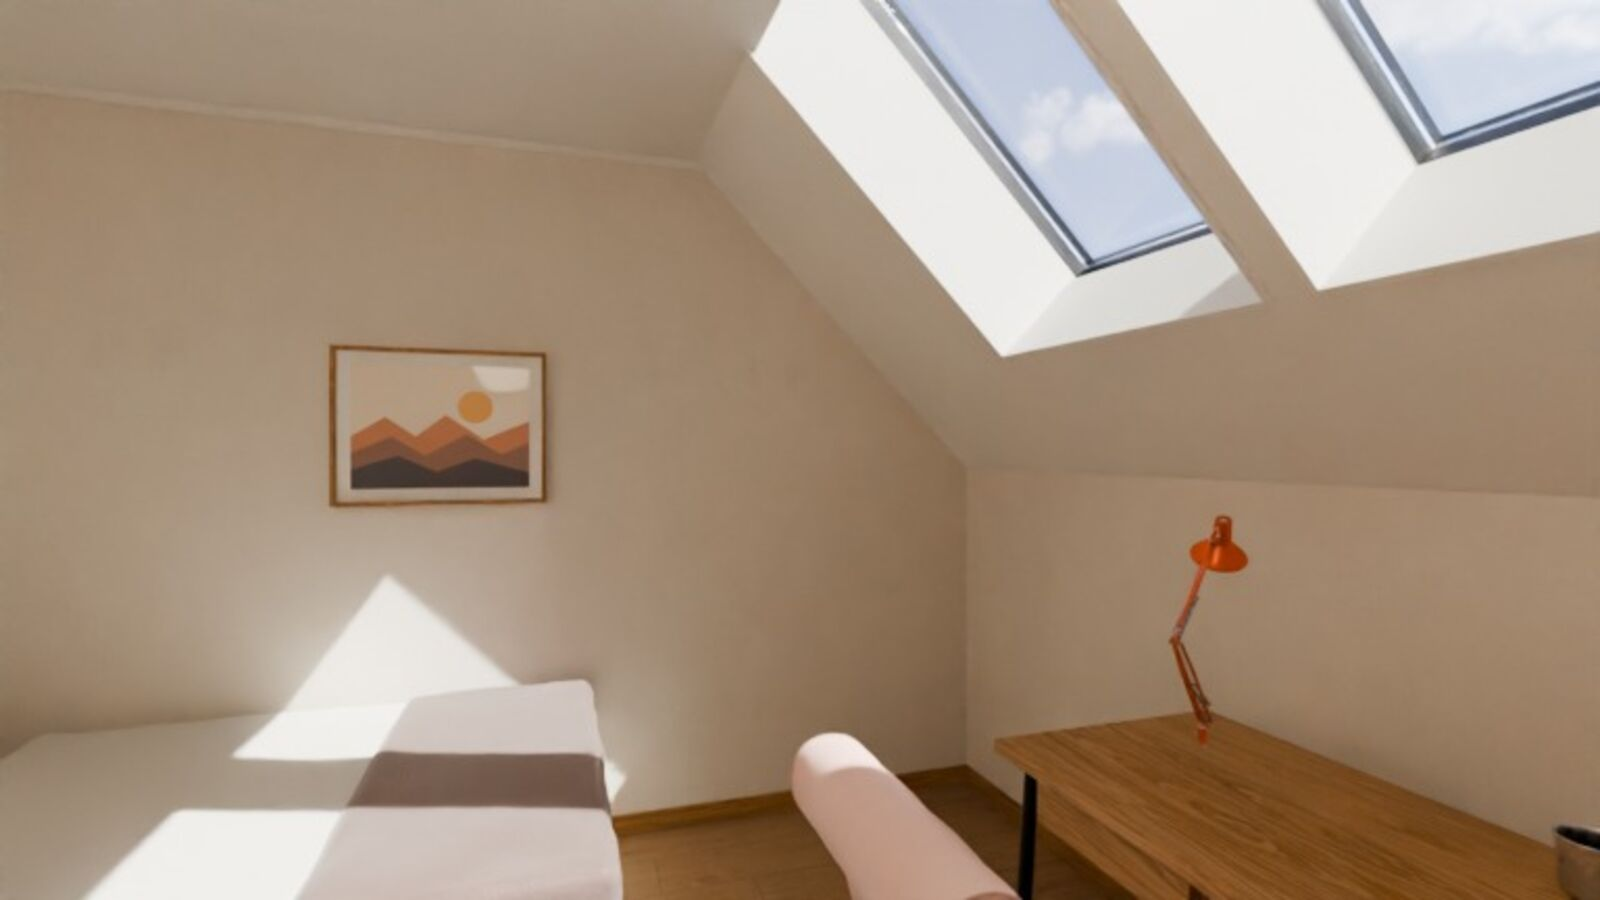
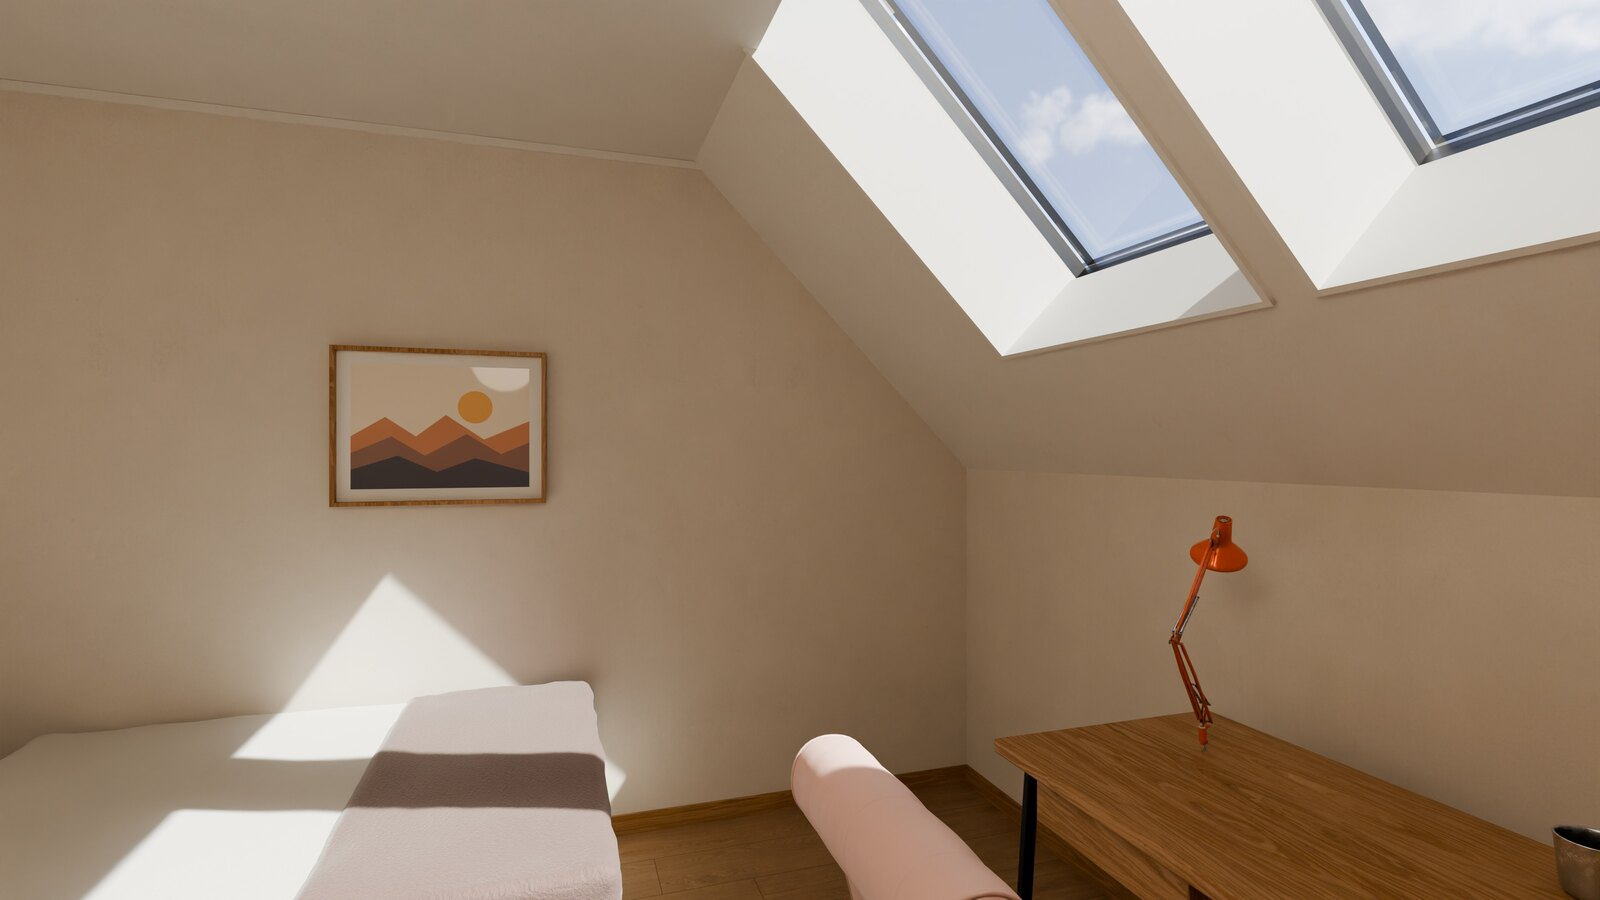
Boligannonse: 15 av 25 bilder i 4K

diff --git a/annonse/index.html b/annonse/index.html
@@ -103,7 +103,7 @@ img { max-width: 100%; }
 
 <div class="ark">
   <header class="topp">
-    <div class="merke"><strong>3D-visualisering av planlagt ombygging</strong><span>13 av 25 bilder er ferdige i 4K, resten er forhåndsvisninger</span></div>
+    <div class="merke"><strong>3D-visualisering av planlagt ombygging</strong><span>15 av 25 bilder er ferdige i 4K, resten er forhåndsvisninger</span></div>
     <h1>Enebolig med golfanneks og oppvarmet garasje</h1>
     <figure class="bilde hero"><button type="button" class="apne" data-i="0" aria-label="Åpne bildet: Fasaden mot nord med overbygd inngang"><img src="img/01-fasade.jpg" width="1600" height="900" alt="Fasaden mot nord med overbygd inngang"></button><figcaption>Fasaden mot nord med overbygd inngang</figcaption></figure>
     <p class="ingress">Et hus over tre plan med stue og kjøkken mot hagen, hovedsoverom med eget bad, tre barnerom og loft. I hagen står et anneks med golfsimulator. Trykk på et bilde for å se det i full oppløsning. På mobil fyller bildet hele skjermen når du snur den, og du blar ved å sveipe.</p>
@@ -113,7 +113,7 @@ img { max-width: 100%; }
 
 <section id="ute" class="del"><div class="delhode"><h2>Huset</h2><p>Brun stående kledning, sort ståltak og eik rundt alle åpninger. Overbygd inngang mot nord, dobbel garasje ved siden av.</p></div><div class="galleri"><figure class="bilde stor"><button type="button" class="apne" data-i="1" aria-label="Åpne bildet: Huset, garasjen og annekset sett fra nord"><img src="img/02-oversikt.jpg" width="1600" height="900" alt="Huset, garasjen og annekset sett fra nord" loading="lazy"></button><figcaption>Huset, garasjen og annekset sett fra nord</figcaption></figure></div></section>
 <section id="forste" class="del"><div class="delhode"><h2>Første etasje</h2><p>Stue, TV-stue, spisestue og kjøkken ligger på rekke mot hagen i sør. Tilbygget med kjøkken og spisestue ligger litt lavere enn stua og har 2,9 meter under taket.</p></div><div class="galleri"><figure class="bilde stor"><button type="button" class="apne" data-i="2" aria-label="Åpne bildet: Stua med karnapp mot hagen"><img src="img/04-stue.jpg" width="1600" height="900" alt="Stua med karnapp mot hagen" loading="lazy"></button><figcaption>Stua med karnapp mot hagen</figcaption></figure><figure class="bilde"><button type="button" class="apne" data-i="3" aria-label="Åpne bildet: Sofagruppa, med TV-stua bak glassveggen til venstre"><img src="img/05-stue-sofa.jpg" width="1600" height="900" alt="Sofagruppa, med TV-stua bak glassveggen til venstre" loading="lazy"></button><figcaption>Sofagruppa, med TV-stua bak glassveggen til venstre</figcaption></figure><figure class="bilde"><button type="button" class="apne" data-i="4" aria-label="Åpne bildet: Spisestue med rundt bord til åtte og skyvedører ut til terrassen"><img src="img/07-spisestue.jpg" width="1600" height="900" alt="Spisestue med rundt bord til åtte og skyvedører ut til terrassen" loading="lazy"></button><figcaption>Spisestue med rundt bord til åtte og skyvedører ut til terrassen</figcaption></figure><figure class="bilde"><button type="button" class="apne" data-i="5" aria-label="Åpne bildet: Kjøkken med mørk brune fronter og øy i Dekton"><img src="img/08-kjokken.jpg" width="1600" height="900" alt="Kjøkken med mørk brune fronter og øy i Dekton" loading="lazy"></button><figcaption>Kjøkken med mørk brune fronter og øy i Dekton</figcaption></figure><figure class="bilde"><button type="button" class="apne" data-i="6" aria-label="Åpne bildet: Kjøkkenøya har usynlig induksjon under steinplata"><img src="img/09-kjokken-oy.jpg" width="1600" height="900" alt="Kjøkkenøya har usynlig induksjon under steinplata" loading="lazy"></button><figcaption>Kjøkkenøya har usynlig induksjon under steinplata</figcaption></figure><figure class="bilde"><button type="button" class="apne" data-i="7" aria-label="Åpne bildet: TV-stua kan stenges av med glassfoldevegg"><img src="img/06-tvstue.jpg" width="1600" height="900" alt="TV-stua kan stenges av med glassfoldevegg" loading="lazy"></button><figcaption>TV-stua kan stenges av med glassfoldevegg</figcaption></figure><figure class="bilde"><button type="button" class="apne" data-i="8" aria-label="Åpne bildet: Entréen sett fra hoveddøra, med stua innerst"><img src="img/03-entre.jpg" width="1600" height="900" alt="Entréen sett fra hoveddøra, med stua innerst" loading="lazy"></button><figcaption>Entréen sett fra hoveddøra, med stua innerst</figcaption></figure></div></section>
-<section id="andre" class="del"><div class="delhode"><h2>Andre etasje</h2><p>Hovedsoverom med eget bad og walk-in, tre barnerom, barnebad, vaskerom og hjemmekontor.</p></div><div class="galleri"><figure class="bilde stor"><button type="button" class="apne" data-i="9" aria-label="Åpne bildet: Hovedsoverommet, med loftstrappa utenfor døra"><img src="img/10-hovedsoverom.jpg" width="1600" height="900" alt="Hovedsoverommet, med loftstrappa utenfor døra" loading="lazy"></button><figcaption>Hovedsoverommet, med loftstrappa utenfor døra</figcaption></figure><figure class="bilde"><button type="button" class="apne" data-i="10" aria-label="Åpne bildet: Bad til hovedsoverommet med dusj under skråtaket"><img src="img/11-masterbad.jpg" width="1600" height="900" alt="Bad til hovedsoverommet med dusj under skråtaket" loading="lazy"></button><figcaption>Bad til hovedsoverommet med dusj under skråtaket</figcaption></figure><figure class="bilde"><button type="button" class="apne" data-i="11" aria-label="Åpne bildet: Walk-in med plassbygd innredning i eik"><img src="img/12-walkin.jpg" width="1600" height="900" alt="Walk-in med plassbygd innredning i eik" loading="lazy"></button><figcaption>Walk-in med plassbygd innredning i eik</figcaption></figure><figure class="bilde"><button type="button" class="apne" data-i="12" aria-label="Åpne bildet: Barnerom med gulvhøyt vindu mot vest"><img src="img/13-barnerom2.jpg" width="1600" height="900" alt="Barnerom med gulvhøyt vindu mot vest" loading="lazy"></button><figcaption>Barnerom med gulvhøyt vindu mot vest</figcaption></figure><figure class="bilde"><button type="button" class="apne" data-i="13" aria-label="Åpne bildet: Barnerom med lenestol ved vinduet"><img src="img/14-barnerom3.jpg" width="1600" height="900" alt="Barnerom med lenestol ved vinduet" loading="lazy"><span class="lav">Lav kvalitet, 4K kommer</span></button><figcaption>Barnerom med lenestol ved vinduet</figcaption></figure><figure class="bilde"><button type="button" class="apne" data-i="14" aria-label="Åpne bildet: Barnerom med takvinduer mot sør"><img src="img/15-barnerom1.jpg" width="1600" height="900" alt="Barnerom med takvinduer mot sør" loading="lazy"><span class="lav">Lav kvalitet, 4K kommer</span></button><figcaption>Barnerom med takvinduer mot sør</figcaption></figure><figure class="bilde"><button type="button" class="apne" data-i="15" aria-label="Åpne bildet: Barnebad med dobbel servant og takvinduer"><img src="img/25-barnebad.jpg" width="1600" height="900" alt="Barnebad med dobbel servant og takvinduer" loading="lazy"><span class="lav">Lav kvalitet, 4K kommer</span></button><figcaption>Barnebad med dobbel servant og takvinduer</figcaption></figure><figure class="bilde"><button type="button" class="apne" data-i="16" aria-label="Åpne bildet: Hjemmekontor i nisjen ved trappa"><img src="img/16-kontor.jpg" width="1600" height="900" alt="Hjemmekontor i nisjen ved trappa" loading="lazy"><span class="lav">Lav kvalitet, 4K kommer</span></button><figcaption>Hjemmekontor i nisjen ved trappa</figcaption></figure></div></section>
+<section id="andre" class="del"><div class="delhode"><h2>Andre etasje</h2><p>Hovedsoverom med eget bad og walk-in, tre barnerom, barnebad, vaskerom og hjemmekontor.</p></div><div class="galleri"><figure class="bilde stor"><button type="button" class="apne" data-i="9" aria-label="Åpne bildet: Hovedsoverommet, med loftstrappa utenfor døra"><img src="img/10-hovedsoverom.jpg" width="1600" height="900" alt="Hovedsoverommet, med loftstrappa utenfor døra" loading="lazy"></button><figcaption>Hovedsoverommet, med loftstrappa utenfor døra</figcaption></figure><figure class="bilde"><button type="button" class="apne" data-i="10" aria-label="Åpne bildet: Bad til hovedsoverommet med dusj under skråtaket"><img src="img/11-masterbad.jpg" width="1600" height="900" alt="Bad til hovedsoverommet med dusj under skråtaket" loading="lazy"></button><figcaption>Bad til hovedsoverommet med dusj under skråtaket</figcaption></figure><figure class="bilde"><button type="button" class="apne" data-i="11" aria-label="Åpne bildet: Walk-in med plassbygd innredning i eik"><img src="img/12-walkin.jpg" width="1600" height="900" alt="Walk-in med plassbygd innredning i eik" loading="lazy"></button><figcaption>Walk-in med plassbygd innredning i eik</figcaption></figure><figure class="bilde"><button type="button" class="apne" data-i="12" aria-label="Åpne bildet: Barnerom med gulvhøyt vindu mot vest"><img src="img/13-barnerom2.jpg" width="1600" height="900" alt="Barnerom med gulvhøyt vindu mot vest" loading="lazy"></button><figcaption>Barnerom med gulvhøyt vindu mot vest</figcaption></figure><figure class="bilde"><button type="button" class="apne" data-i="13" aria-label="Åpne bildet: Barnerom med lenestol ved vinduet"><img src="img/14-barnerom3.jpg" width="1600" height="900" alt="Barnerom med lenestol ved vinduet" loading="lazy"></button><figcaption>Barnerom med lenestol ved vinduet</figcaption></figure><figure class="bilde"><button type="button" class="apne" data-i="14" aria-label="Åpne bildet: Barnerom med takvinduer mot sør"><img src="img/15-barnerom1.jpg" width="1600" height="900" alt="Barnerom med takvinduer mot sør" loading="lazy"></button><figcaption>Barnerom med takvinduer mot sør</figcaption></figure><figure class="bilde"><button type="button" class="apne" data-i="15" aria-label="Åpne bildet: Barnebad med dobbel servant og takvinduer"><img src="img/25-barnebad.jpg" width="1600" height="900" alt="Barnebad med dobbel servant og takvinduer" loading="lazy"><span class="lav">Lav kvalitet, 4K kommer</span></button><figcaption>Barnebad med dobbel servant og takvinduer</figcaption></figure><figure class="bilde"><button type="button" class="apne" data-i="16" aria-label="Åpne bildet: Hjemmekontor i nisjen ved trappa"><img src="img/16-kontor.jpg" width="1600" height="900" alt="Hjemmekontor i nisjen ved trappa" loading="lazy"><span class="lav">Lav kvalitet, 4K kommer</span></button><figcaption>Hjemmekontor i nisjen ved trappa</figcaption></figure></div></section>
 <section id="loft" class="del"><div class="delhode"><h2>Loftet</h2><p>Loftet har gjesterom i vest og et stort hobbyrom i øst, med tre takvinduer mot nord.</p></div><div class="galleri"><figure class="bilde stor"><button type="button" class="apne" data-i="17" aria-label="Åpne bildet: Hobbyrommet på loftet"><img src="img/17-loft.jpg" width="1600" height="900" alt="Hobbyrommet på loftet" loading="lazy"><span class="lav">Lav kvalitet, 4K kommer</span></button><figcaption>Hobbyrommet på loftet</figcaption></figure><figure class="bilde"><button type="button" class="apne" data-i="18" aria-label="Åpne bildet: Gjesterommet under mønet"><img src="img/18-loft-gjest.jpg" width="1600" height="900" alt="Gjesterommet under mønet" loading="lazy"><span class="lav">Lav kvalitet, 4K kommer</span></button><figcaption>Gjesterommet under mønet</figcaption></figure></div></section>
 <section id="hage" class="del"><div class="delhode"><h2>Terrasse og hage</h2><p>Terrassen ligger utenfor spisestua og fortsetter rundt hjørnet til kjøkkendøra. Hagen er skjermet av hekk.</p></div><div class="galleri"><figure class="bilde stor"><button type="button" class="apne" data-i="19" aria-label="Åpne bildet: Terrassen sett fra plenen"><img src="img/19-terrasse.jpg" width="1600" height="900" alt="Terrassen sett fra plenen" loading="lazy"><span class="lav">Lav kvalitet, 4K kommer</span></button><figcaption>Terrassen sett fra plenen</figcaption></figure><figure class="bilde"><button type="button" class="apne" data-i="20" aria-label="Åpne bildet: Sofagruppe på terrassen, annekset innerst i hagen"><img src="img/20-terrasse-ute.jpg" width="1600" height="900" alt="Sofagruppe på terrassen, annekset innerst i hagen" loading="lazy"><span class="lav">Lav kvalitet, 4K kommer</span></button><figcaption>Sofagruppe på terrassen, annekset innerst i hagen</figcaption></figure><figure class="bilde"><button type="button" class="apne" data-i="21" aria-label="Åpne bildet: Hellegang over plenen til annekset"><img src="img/21-hage-anneks.jpg" width="1600" height="900" alt="Hellegang over plenen til annekset" loading="lazy"><span class="lav">Lav kvalitet, 4K kommer</span></button><figcaption>Hellegang over plenen til annekset</figcaption></figure></div></section>
 <section id="anneks" class="del"><div class="delhode"><h2>Anneks og garasje</h2><p>Annekset på 40 kvadratmeter har golfsimulator med lerret fra vegg til vegg og en liten lounge. Garasjen er dobbel og oppvarmet.</p></div><div class="galleri"><figure class="bilde stor"><button type="button" class="apne" data-i="22" aria-label="Åpne bildet: Golfsimulatoren i annekset"><img src="img/22-golf.jpg" width="1600" height="900" alt="Golfsimulatoren i annekset" loading="lazy"><span class="lav">Lav kvalitet, 4K kommer</span></button><figcaption>Golfsimulatoren i annekset</figcaption></figure><figure class="bilde"><button type="button" class="apne" data-i="23" aria-label="Åpne bildet: Loungen i annekset, under himling av eikespiler"><img src="img/23-golf-lounge.jpg" width="1600" height="900" alt="Loungen i annekset, under himling av eikespiler" loading="lazy"><span class="lav">Lav kvalitet, 4K kommer</span></button><figcaption>Loungen i annekset, under himling av eikespiler</figcaption></figure><figure class="bilde"><button type="button" class="apne" data-i="24" aria-label="Åpne bildet: Oppvarmet garasje med arbeidsbenk og skapvegg"><img src="img/24-garasje.jpg" width="1600" height="900" alt="Oppvarmet garasje med arbeidsbenk og skapvegg" loading="lazy"><span class="lav">Lav kvalitet, 4K kommer</span></button><figcaption>Oppvarmet garasje med arbeidsbenk og skapvegg</figcaption></figure></div></section>
@@ -134,7 +134,7 @@ img { max-width: 100%; }
 
 <script>
 (function () {
-  var data = [["01-fasade","Fasaden mot nord med overbygd inngang",1],["02-oversikt","Huset, garasjen og annekset sett fra nord",1],["04-stue","Stua med karnapp mot hagen",1],["05-stue-sofa","Sofagruppa, med TV-stua bak glassveggen til venstre",1],["07-spisestue","Spisestue med rundt bord til åtte og skyvedører ut til terrassen",1],["08-kjokken","Kjøkken med mørk brune fronter og øy i Dekton",1],["09-kjokken-oy","Kjøkkenøya har usynlig induksjon under steinplata",1],["06-tvstue","TV-stua kan stenges av med glassfoldevegg",1],["03-entre","Entréen sett fra hoveddøra, med stua innerst",1],["10-hovedsoverom","Hovedsoverommet, med loftstrappa utenfor døra",1],["11-masterbad","Bad til hovedsoverommet med dusj under skråtaket",1],["12-walkin","Walk-in med plassbygd innredning i eik",1],["13-barnerom2","Barnerom med gulvhøyt vindu mot vest",1],["14-barnerom3","Barnerom med lenestol ved vinduet",0],["15-barnerom1","Barnerom med takvinduer mot sør",0],["25-barnebad","Barnebad med dobbel servant og takvinduer",0],["16-kontor","Hjemmekontor i nisjen ved trappa",0],["17-loft","Hobbyrommet på loftet",0],["18-loft-gjest","Gjesterommet under mønet",0],["19-terrasse","Terrassen sett fra plenen",0],["20-terrasse-ute","Sofagruppe på terrassen, annekset innerst i hagen",0],["21-hage-anneks","Hellegang over plenen til annekset",0],["22-golf","Golfsimulatoren i annekset",0],["23-golf-lounge","Loungen i annekset, under himling av eikespiler",0],["24-garasje","Oppvarmet garasje med arbeidsbenk og skapvegg",0]];
+  var data = [["01-fasade","Fasaden mot nord med overbygd inngang",1],["02-oversikt","Huset, garasjen og annekset sett fra nord",1],["04-stue","Stua med karnapp mot hagen",1],["05-stue-sofa","Sofagruppa, med TV-stua bak glassveggen til venstre",1],["07-spisestue","Spisestue med rundt bord til åtte og skyvedører ut til terrassen",1],["08-kjokken","Kjøkken med mørk brune fronter og øy i Dekton",1],["09-kjokken-oy","Kjøkkenøya har usynlig induksjon under steinplata",1],["06-tvstue","TV-stua kan stenges av med glassfoldevegg",1],["03-entre","Entréen sett fra hoveddøra, med stua innerst",1],["10-hovedsoverom","Hovedsoverommet, med loftstrappa utenfor døra",1],["11-masterbad","Bad til hovedsoverommet med dusj under skråtaket",1],["12-walkin","Walk-in med plassbygd innredning i eik",1],["13-barnerom2","Barnerom med gulvhøyt vindu mot vest",1],["14-barnerom3","Barnerom med lenestol ved vinduet",1],["15-barnerom1","Barnerom med takvinduer mot sør",1],["25-barnebad","Barnebad med dobbel servant og takvinduer",0],["16-kontor","Hjemmekontor i nisjen ved trappa",0],["17-loft","Hobbyrommet på loftet",0],["18-loft-gjest","Gjesterommet under mønet",0],["19-terrasse","Terrassen sett fra plenen",0],["20-terrasse-ute","Sofagruppe på terrassen, annekset innerst i hagen",0],["21-hage-anneks","Hellegang over plenen til annekset",0],["22-golf","Golfsimulatoren i annekset",0],["23-golf-lounge","Loungen i annekset, under himling av eikespiler",0],["24-garasje","Oppvarmet garasje med arbeidsbenk og skapvegg",0]];
   var lys = document.getElementById("lys"), rom = document.getElementById("lys-rom"), bilde = document.getElementById("lys-bilde");
   var tekst = document.getElementById("lys-tekst"), teller = document.getElementById("lys-teller"), zoom = document.getElementById("lys-zoom");
   var i = 0, sist = null;
